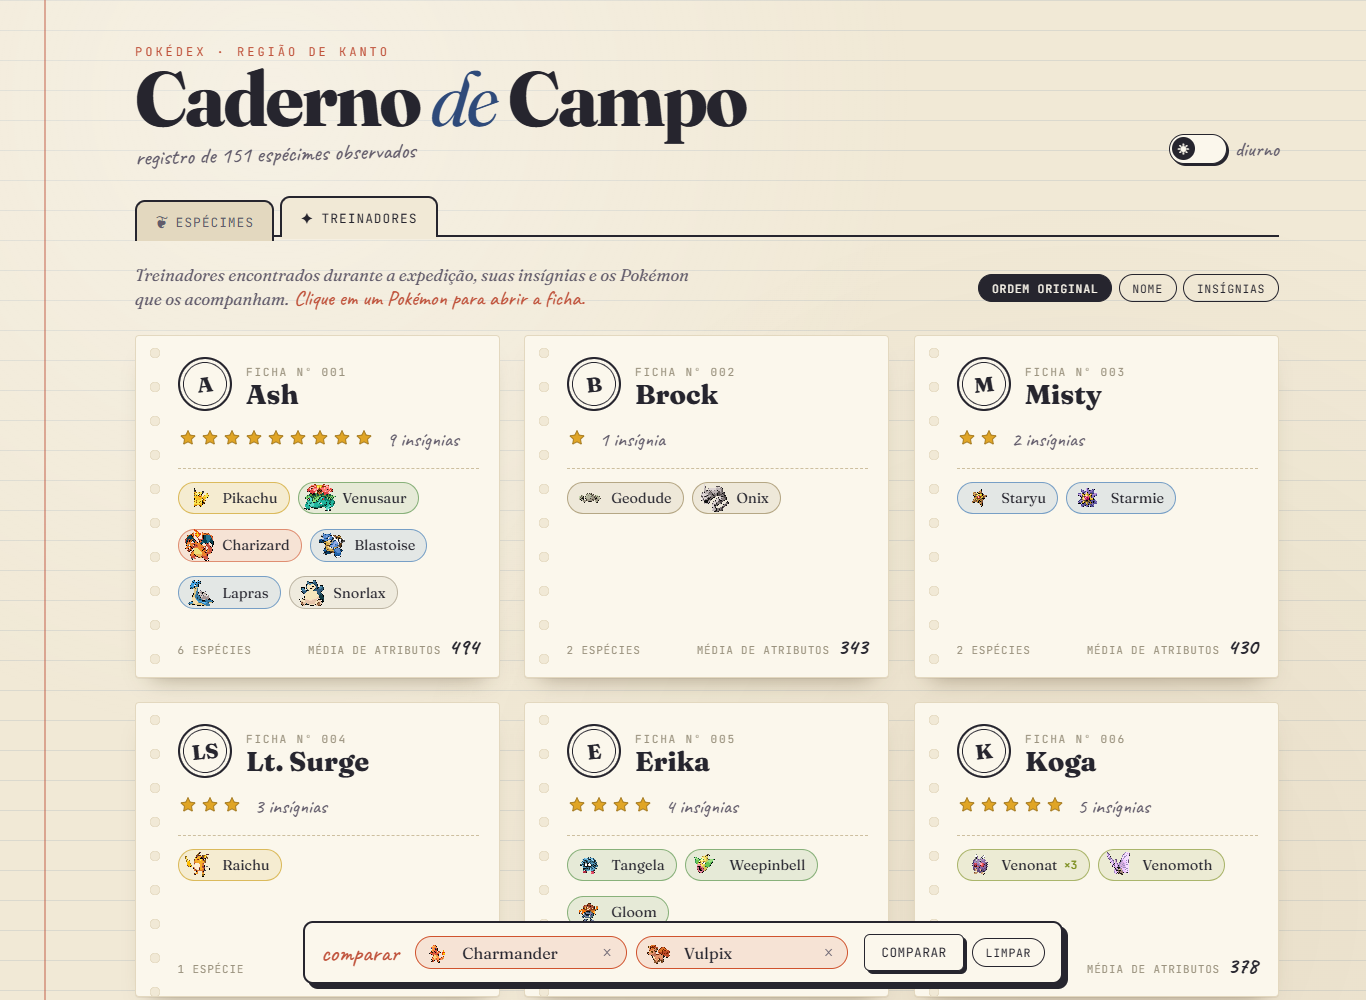
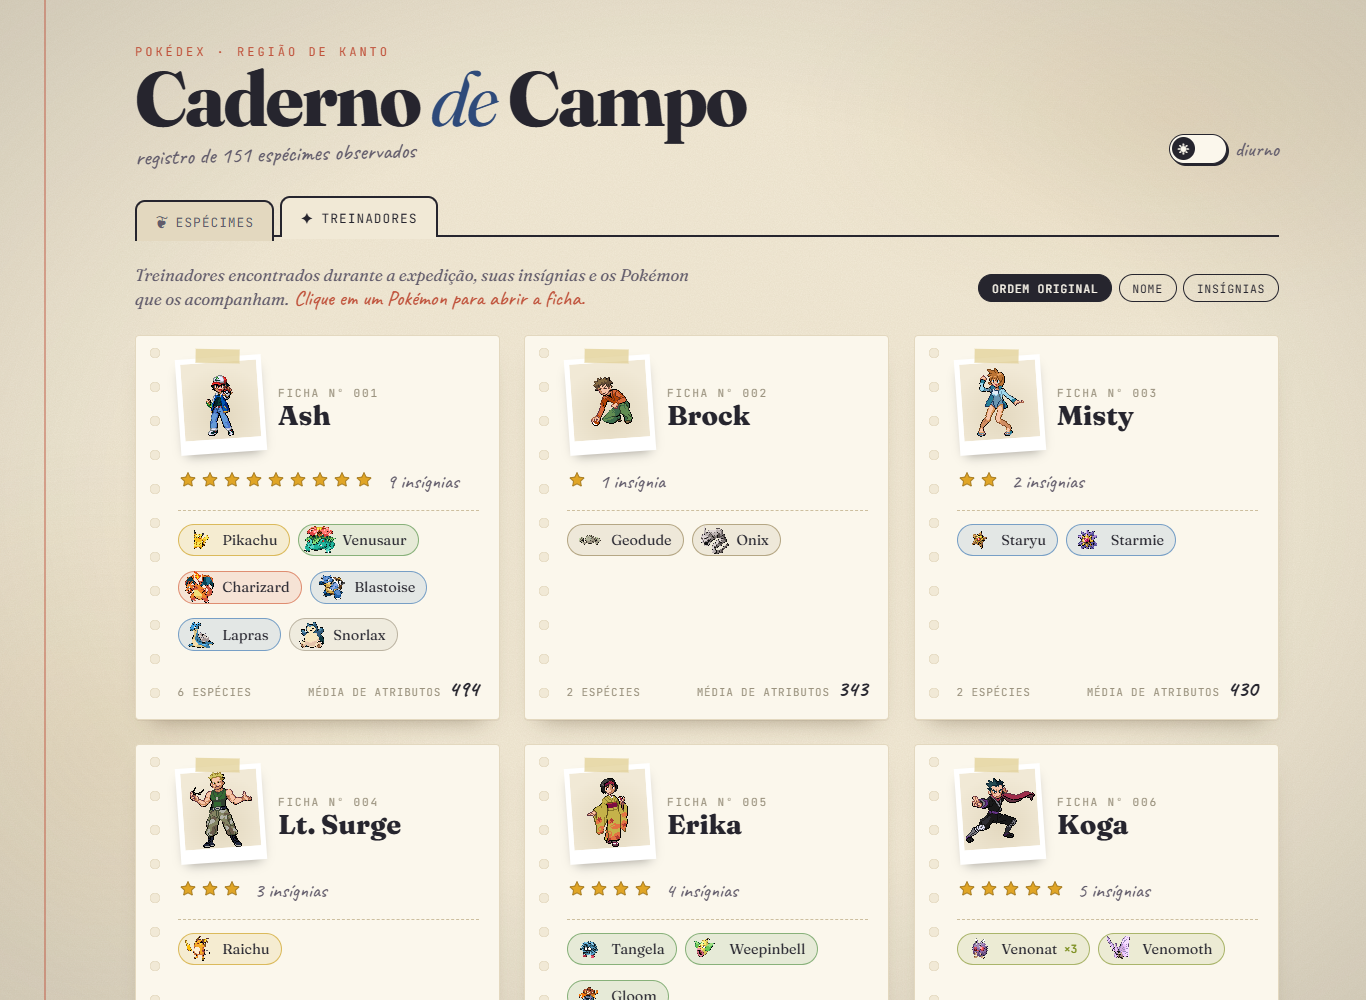
feat: adiciona fotos dos treinadores via sprites do Pokémon Showdown

diff --git a/src/components/TrainerCard.jsx b/src/components/TrainerCard.jsx
@@ -1,6 +1,8 @@
+import { useState } from 'react'
 import { formatId, totalStats } from '../utils/stats'
 import { getPrimaryColor } from '../utils/typeColors'
 import { getSprite, handleImageError } from '../utils/pokemonImage'
+import { getTrainerImage } from '../utils/trainerImage'
 
 function Badge({ index }) {
   return (
@@ -11,6 +13,9 @@ function Badge({ index }) {
 }
 
 function TrainerCard({ trainer, team, onSelectPokemon }) {
+  const photo = getTrainerImage(trainer.name)
+  const [photoFailed, setPhotoFailed] = useState(false)
+
   const initials = trainer.name
     .split(/[\s.]+/)
     .filter(Boolean)
@@ -25,7 +30,14 @@ function TrainerCard({ trainer, team, onSelectPokemon }) {
   return (
     <article className="trainer">
       <header className="trainer__header">
-        <span className="trainer__avatar">{initials}</span>
+        {photo && !photoFailed ? (
+          <figure className="trainer__photo">
+            <span className="trainer__photo-tape" />
+            <img src={photo} alt={`Foto de ${trainer.name}`} loading="lazy" onError={() => setPhotoFailed(true)} />
+          </figure>
+        ) : (
+          <span className="trainer__avatar">{initials}</span>
+        )}
         <div>
           <span className="trainer__label">ficha nº {formatId(trainer.id)}</span>
           <h3 className="trainer__name">{trainer.name}</h3>

diff --git a/src/css/Trainers.css b/src/css/Trainers.css
@@ -102,6 +102,49 @@
   transform: rotate(-6deg);
 }
 
+/* foto do treinador como uma polaroid presa na ficha */
+.trainer__photo {
+  position: relative;
+  flex: 0 0 auto;
+  width: 86px;
+  height: 96px;
+  margin: 0;
+  padding: 5px 5px 14px;
+  background: #fff;
+  box-shadow: 0 6px 12px -6px rgba(0, 0, 0, 0.4);
+  transform: rotate(-4deg);
+  transition: transform 0.3s cubic-bezier(0.2, 0.8, 0.2, 1);
+}
+
+.trainer:hover .trainer__photo {
+  transform: rotate(0deg) scale(1.05);
+}
+
+.trainer__photo img {
+  display: block;
+  width: 100%;
+  height: 100%;
+  object-fit: contain;
+  object-position: bottom;
+  background: radial-gradient(circle at 50% 70%, var(--card-edge), var(--paper) 75%);
+  image-rendering: pixelated;
+}
+
+.trainer__photo-tape {
+  position: absolute;
+  top: -8px;
+  left: 50%;
+  z-index: 1;
+  width: 44px;
+  height: 14px;
+  background: var(--tape);
+  transform: translateX(-50%) rotate(5deg);
+}
+
+:root[data-theme='dark'] .trainer__photo {
+  background: #dfe6f0;
+}
+
 .trainer__label {
   font-family: var(--font-mono);
   font-size: 0.7rem;

diff --git a/src/utils/trainerImage.js b/src/utils/trainerImage.js
@@ -1,0 +1,23 @@
+const TRAINER_SPRITES = 'https://play.pokemonshowdown.com/sprites/trainers'
+
+// Nome do treinador no pokedex-data.json -> arquivo do sprite no Pokémon Showdown
+const SPRITE_FILES = {
+  Ash: 'ash',
+  Brock: 'brock',
+  Misty: 'misty',
+  'Lt. Surge': 'ltsurge',
+  Erika: 'erika',
+  Koga: 'koga',
+  Sabrina: 'sabrina',
+  Blaine: 'blaine',
+  Giovanni: 'giovanni',
+  Gary: 'blue', // nos jogos o rival se chama Blue
+  'Team Rocket': 'teamrocket',
+  Lance: 'lance',
+}
+
+// Retorna a URL da imagem do treinador ou null se não houver sprite conhecido
+export function getTrainerImage(name) {
+  const file = SPRITE_FILES[name]
+  return file ? `${TRAINER_SPRITES}/${file}.png` : null
+}
